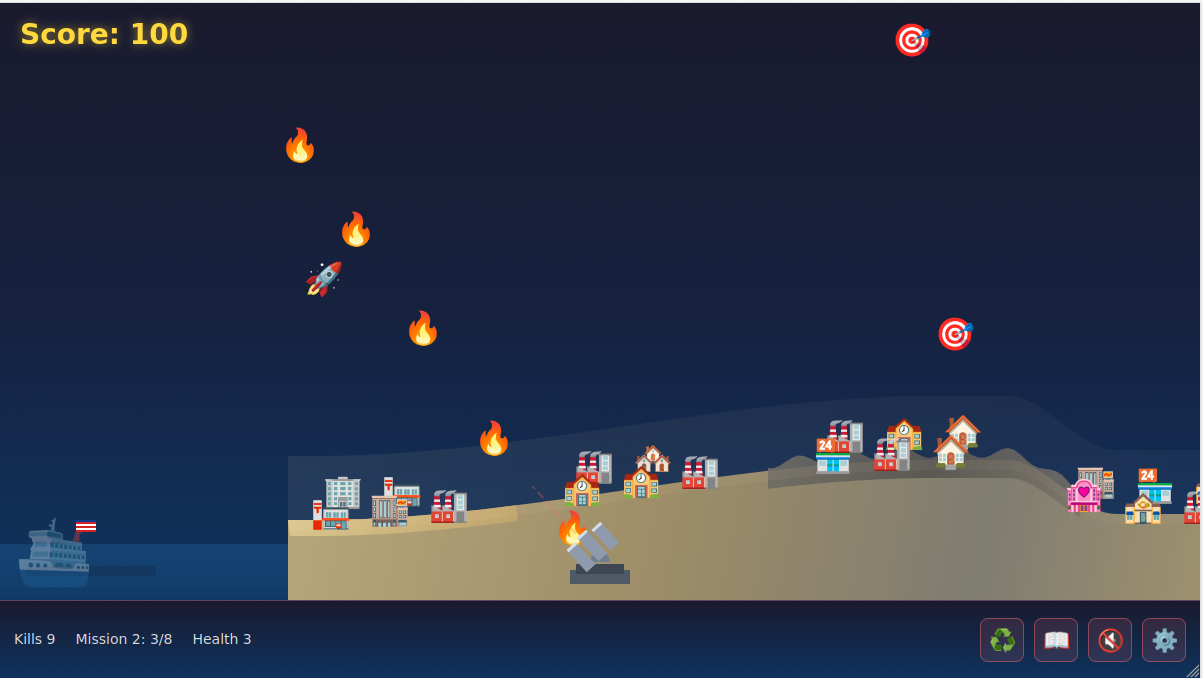
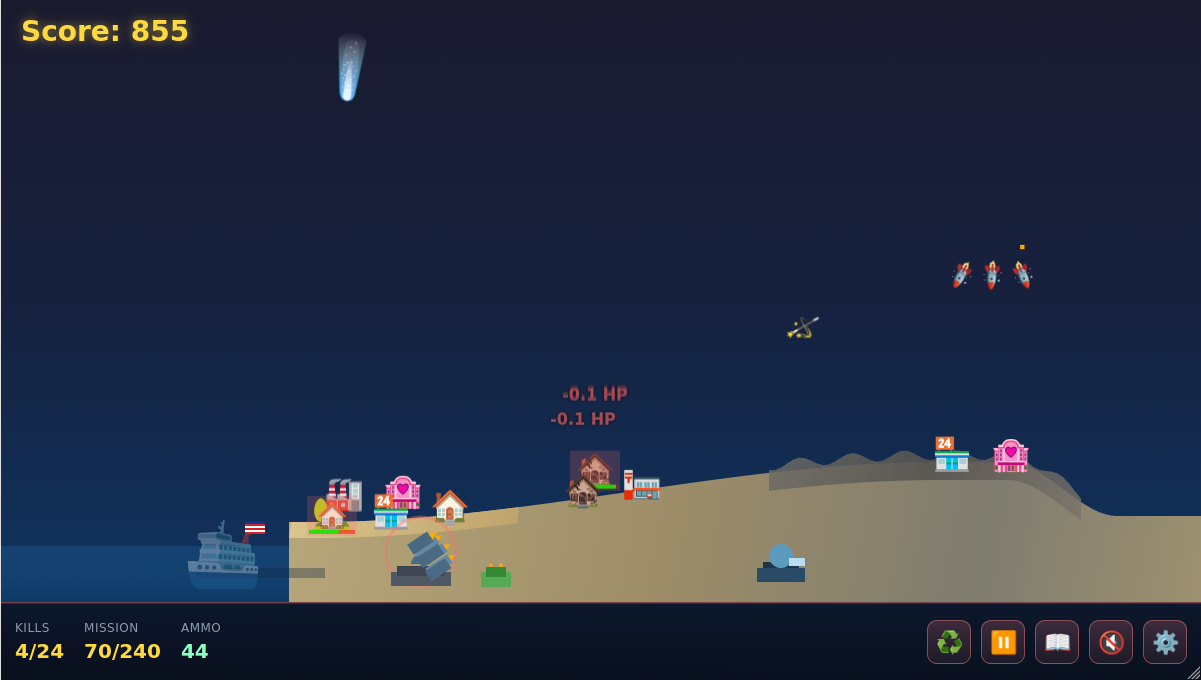
missile-defense: enhancement

diff --git a/missile-defense.html b/missile-defense.html
@@ -544,21 +544,21 @@
             { // Level 1 — tutorial pace
                 name: "First Contact",
                 enemyTypes: ["rocket"],
-                spawnRate: 0.001,
+                spawnRate: 0.003,
                 maxMissiles: 3,
                 message: "Defend against rockets!"
             },
             { // Level 2
                 name: "Missile Threats",
                 enemyTypes: ["rocket", "commet"],
-                spawnRate: 0.002,
+                spawnRate: 0.005,
                 maxMissiles: 3,
                 message: "Comet missiles incoming!"
             },
             { // Level 3
                 name: "Drone Threats",
                 enemyTypes: ["drone"],
-                spawnRate: 0.003,
+                spawnRate: 0.006,
                 maxMissiles: 4,
                 message: "Drone threats detected!"
             },
@@ -2033,17 +2033,23 @@
                 waveClearPauseTimer -= frameScale;
             } else if (missiles.length < maxMissilesThisWave) {
                 const portraitBoost = Math.max(1, canvas.height / Math.max(1, canvas.width));
-                const effectiveRate = Math.min(0.05, levelConfig.spawnRate * portraitBoost);
+                let effectiveRate = Math.min(0.05, levelConfig.spawnRate * portraitBoost);
+
+                // If no missiles are on screen, significantly boost spawn chance to keep player engaged
+                if (missiles.length === 0) {
+                    effectiveRate = Math.max(effectiveRate, 0.06);
+                }
+
                 const spawnChance = 1 - Math.pow(1 - effectiveRate, frameScale);
                 if (Math.random() < spawnChance) {
                     spawnMissile();
                 }
             }
 
-            // Spawn friendly jets occasionally (bonus feature)
+            // Spawn friendly jets occasionally (bonus feature) — unlock from level 4
             const previousBucket = Math.floor((frameCount - frameScale) / 180);
             const currentBucket = Math.floor(frameCount / 180);
-            if (currentBucket > previousBucket && Math.random() < 0.6) {
+            if (currentBucket > previousBucket && wave >= 4 && Math.random() < 0.6) {
                 spawnFriendlyJet();
             }
 
@@ -2117,6 +2123,7 @@
 
                 // Check if missile reached ground
                 if (m.y >= getGroundYAt(m.x)) {
+                    triggerHitFeedback(1.5); // Add screen shake and flash on ground impact
                     const hitBuilding = findHitBuilding(m.x, m.y);
                     if (hitBuilding) {
                         hitBuilding.health -= m.typeData.damage;

diff --git a/index.html b/index.html
@@ -334,7 +334,7 @@ h1 {
 </main>
 <script>
 (function () {
-    const APP_VERSION = "2026.03.23.1";
+    const APP_VERSION = "2026.03.23.2";
     const installBtn = document.getElementById("installBtn");
     const refreshBtn = document.getElementById("refreshBtn");
     const appStatus = document.getElementById("appStatus");

diff --git a/service-worker.js b/service-worker.js
@@ -1,4 +1,4 @@
-const CACHE_VERSION = "offline-games-v14";
+const CACHE_VERSION = "offline-games-v15";
 const CORE_ASSETS = [
     "./",
     "./index.html",